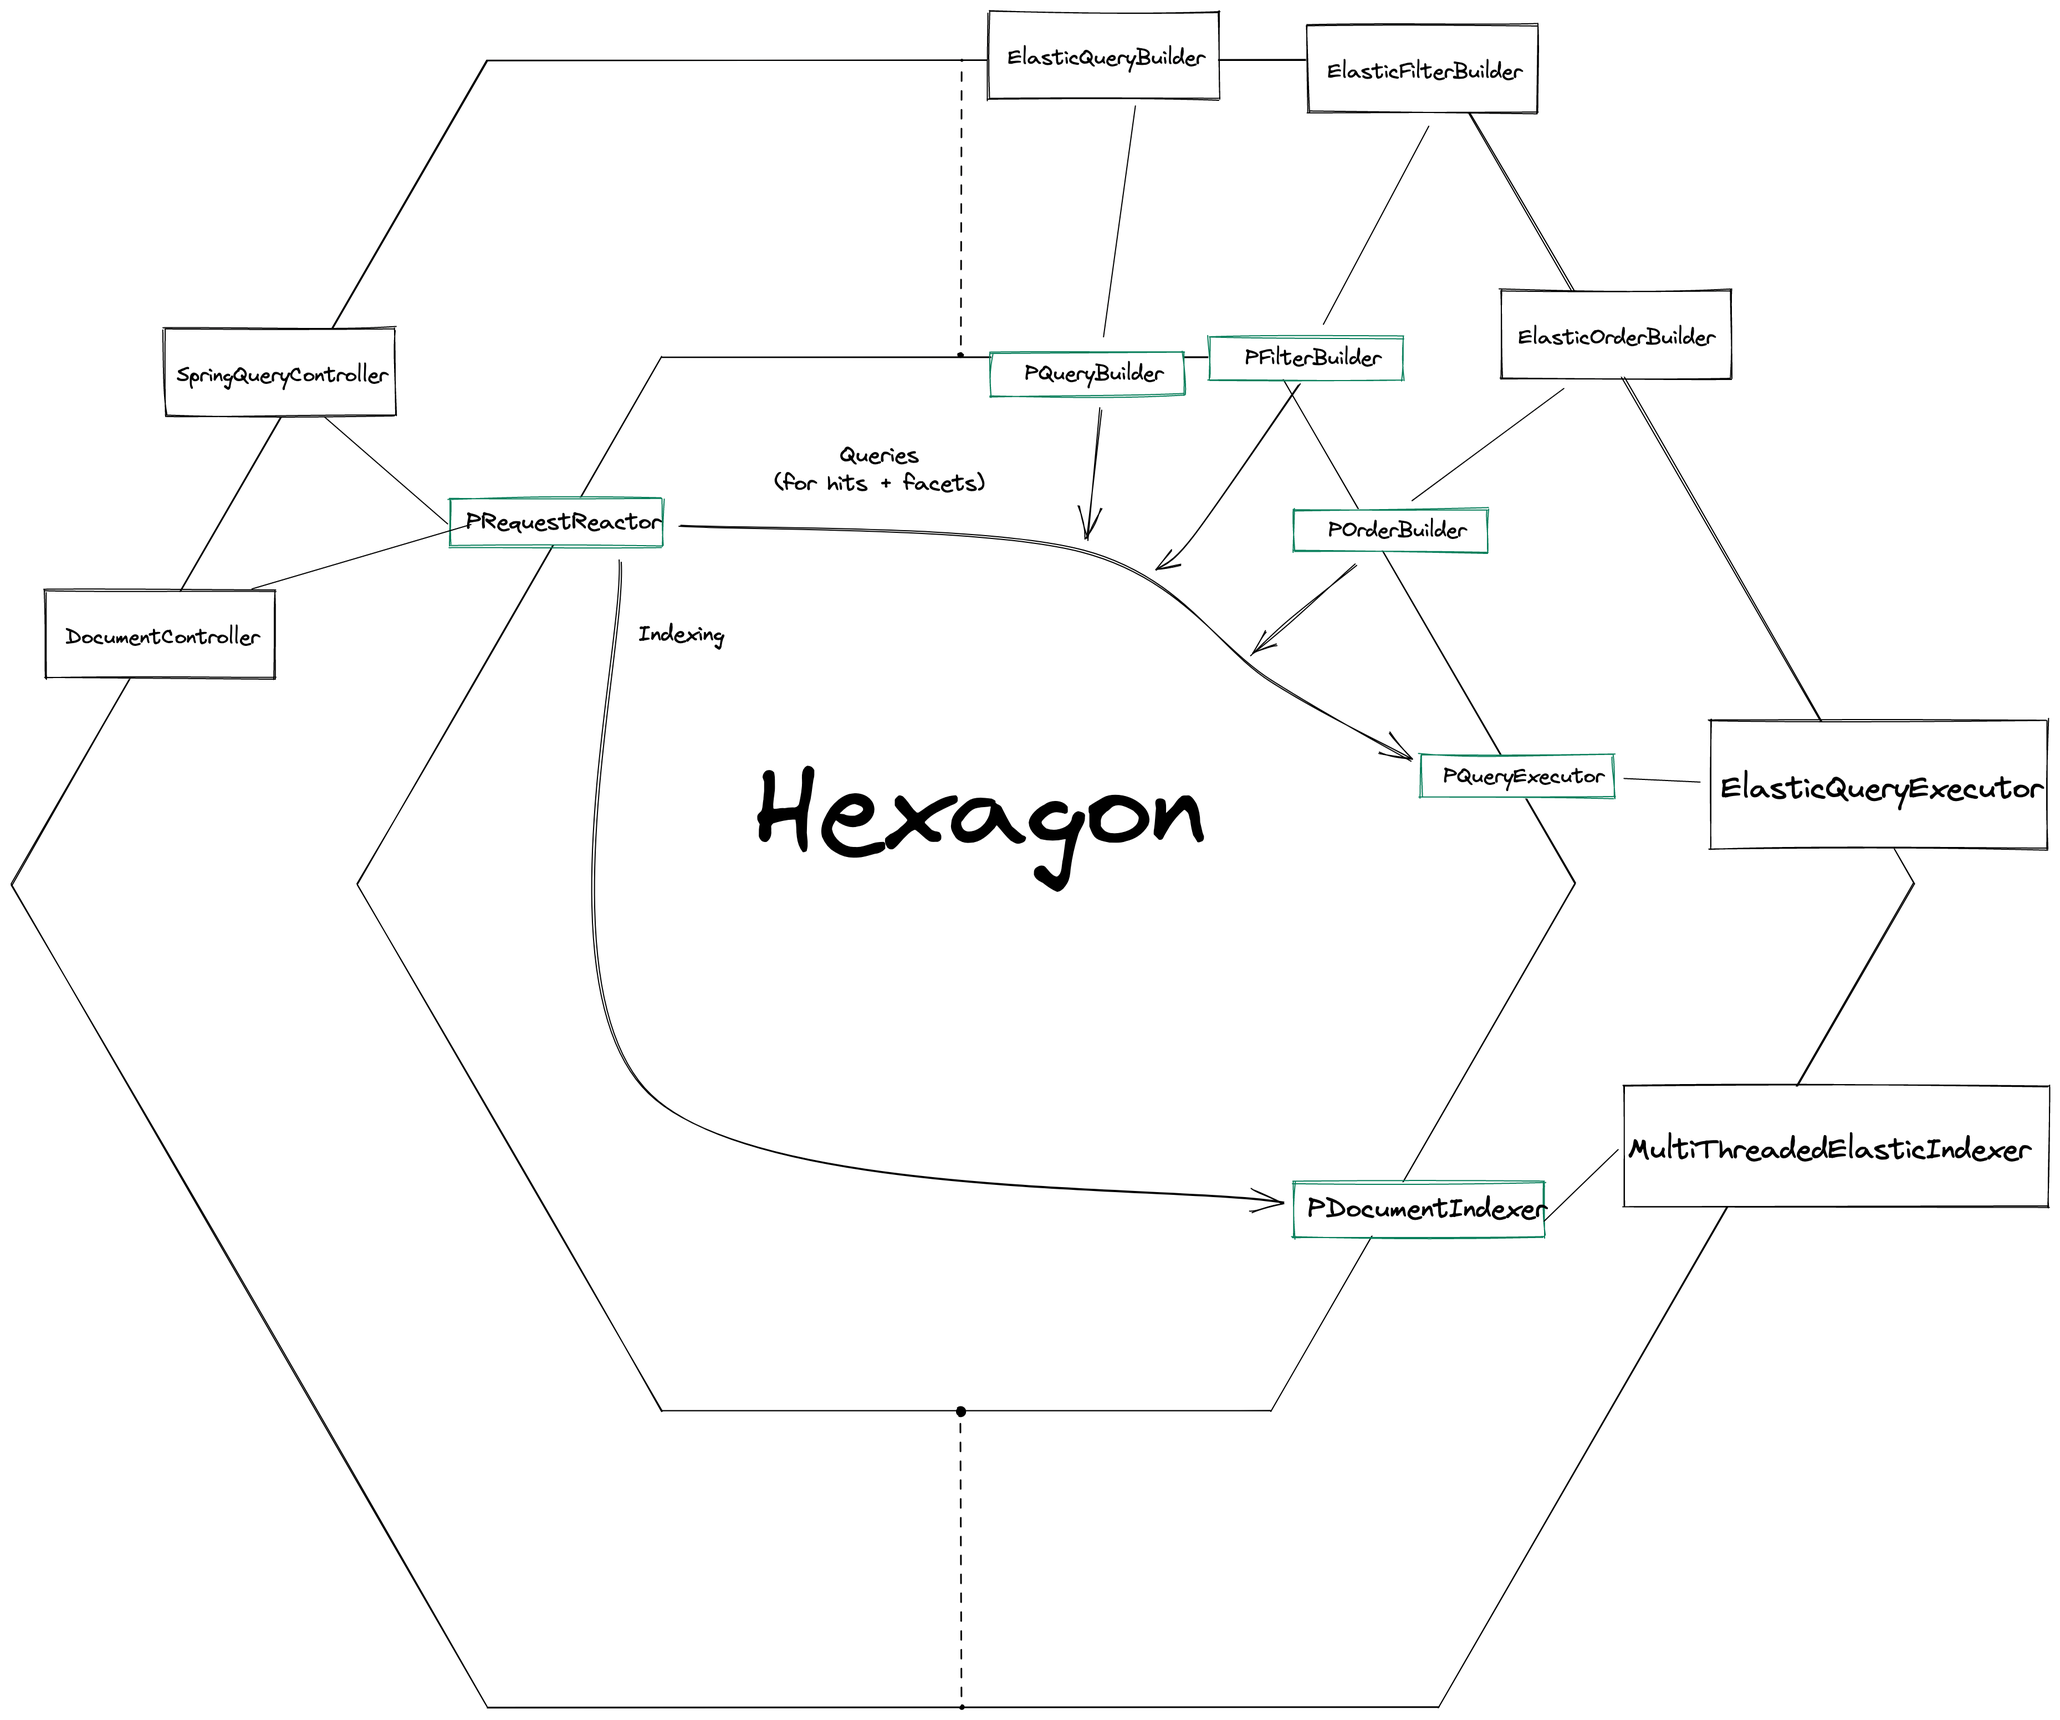
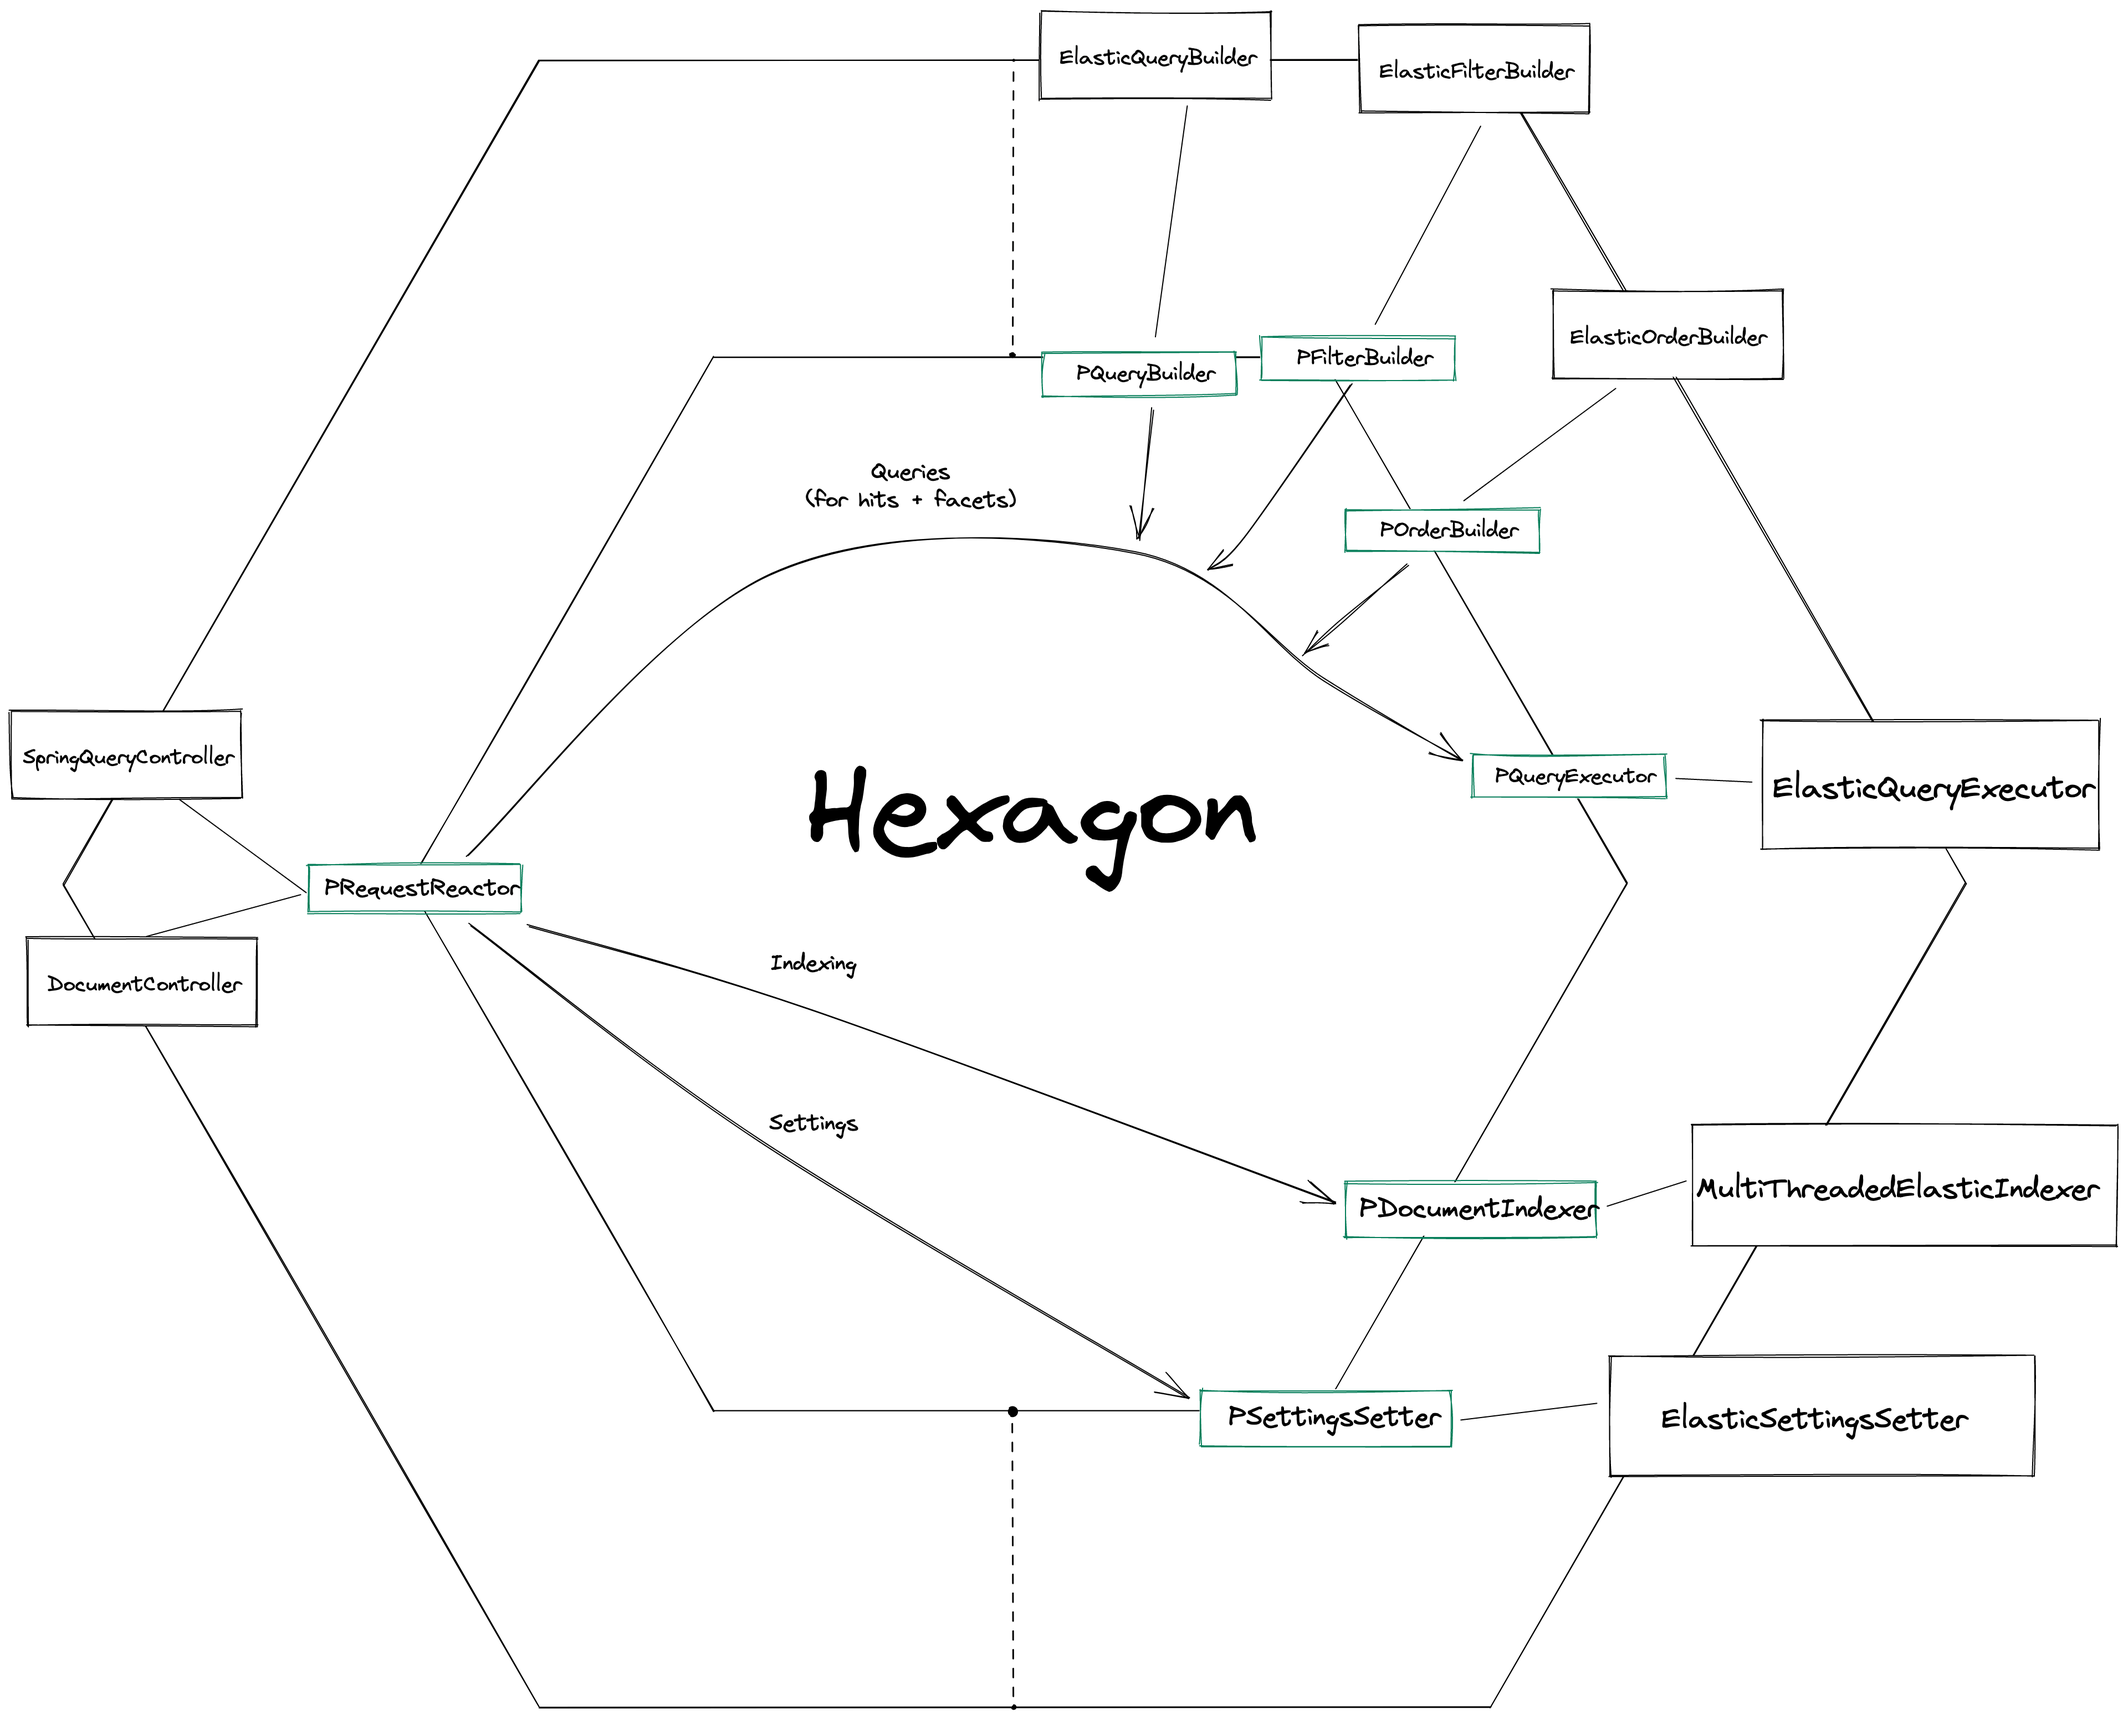
Updated hexagon again

diff --git a/README.md b/README.md
@@ -10,8 +10,11 @@ The Spring controllers send requests, these (for the moment) search requests get
 Inside the hexagon, the query, filter and ordering builders build each its own thing, and the hexagon bundles
 it all up before passing it down to the query executor, which executes the query.
 
-The controllers also can send document requests, to index a file. These are barebones for the moment and just pass the 
+The controllers also can send document commands, to index a file. These are barebones for the moment and just pass the 
 data down to the document indexer.
+
+Finally, settings commands change the settings of a certain index. These are normally sent before document requests,
+but are not mandatory and can exist on their own, which is why they get their own command category.
 
 ![The hexagon architecture](docs/hexagonal.png)
 
